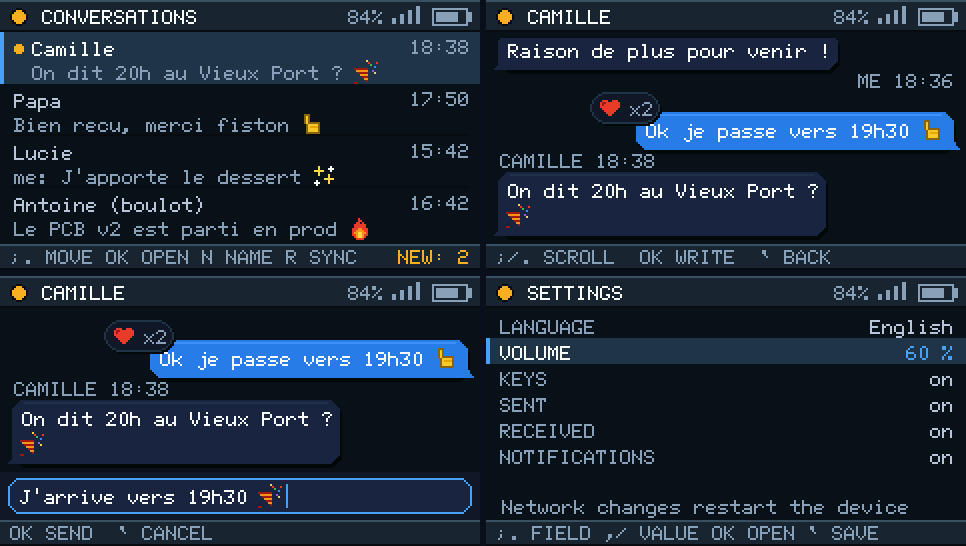
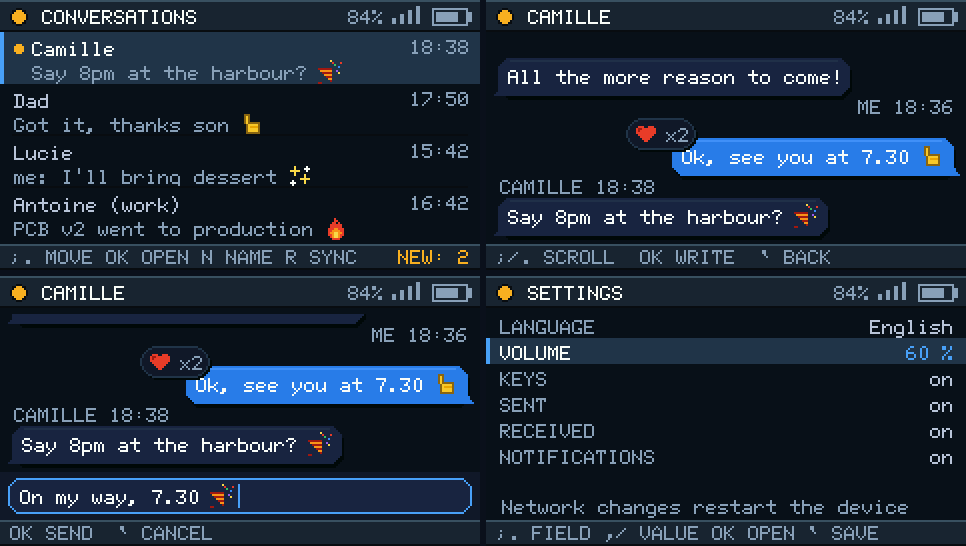
Les images publiées parlent anglais, messages compris
Le chrome suivait déjà la langue ; le jeu de démonstration, lui, restait
français — un mélange qui ne se voit qu'une fois les images montées. Le
contenu de démo suit désormais --lang : contacts, conversations et
frappe du GIF. Toutes les images de publication regénérées en anglais.

diff --git a/src/main_sim.cpp b/src/main_sim.cpp
@@ -94,31 +94,56 @@ BBMsg mkMsg(const char* text, int64_t date, bool fromMe, const char* sender = ""
 void fillDemo(UiModel& m) {
     const int64_t now = demoNow();
     const int64_t MIN = 60000, H = 3600000, D = 86400000;
+    const bool fr = (gLang == LANG_FR);
+
+    // Le jeu de démonstration suit la langue de l'interface : les captures
+    // publiées (anglais par défaut) ne doivent pas mélanger un chrome
+    // anglais et des messages français.
+    auto L = [&](const char* en, const char* frTxt) { return fr ? frTxt : en; };
 
     m.chats.clear();
-    m.chats.push_back(mkChat("621043678", "Camille", "On dit 20h au Vieux Port ? 🎉", now - 4 * MIN, false));
-    m.chats.push_back(mkChat("633728194", "Papa", "Bien recu, merci fiston 👍", now - 52 * MIN, false));
-    m.chats.push_back(mkChat("677301582", "Lucie", "J'apporte le dessert ✨", now - 3 * H, true));
-    m.chats.push_back(mkChat("606459217", "Antoine B.", "Le PCB v2 est parti en prod 🔥", now - 26 * H, false));
-    m.chats.push_back(mkChat("688112430", "Maman", "Appelle-moi quand tu peux ❤", now - 2 * D, false));
+    m.chats.push_back(mkChat("621043678", "Camille",
+        L("Say 8pm at the harbour? \xF0\x9F\x8E\x89", "On dit 20h au Vieux Port ? \xF0\x9F\x8E\x89"),
+        now - 4 * MIN, false));
+    m.chats.push_back(mkChat("633728194", L("Dad", "Papa"),
+        L("Got it, thanks son \xF0\x9F\x91\x8D", "Bien recu, merci fiston \xF0\x9F\x91\x8D"),
+        now - 52 * MIN, false));
+    m.chats.push_back(mkChat("677301582", "Lucie",
+        L("I'll bring dessert \xE2\x9C\xA8", "J'apporte le dessert \xE2\x9C\xA8"),
+        now - 3 * H, true));
+    m.chats.push_back(mkChat("606459217", "Antoine B.",
+        L("PCB v2 went to production \xF0\x9F\x94\xA5", "Le PCB v2 est parti en prod \xF0\x9F\x94\xA5"),
+        now - 26 * H, false));
+    m.chats.push_back(mkChat("688112430", L("Mom", "Maman"),
+        L("Call me when you can \xE2\x9D\xA4", "Appelle-moi quand tu peux \xE2\x9D\xA4"),
+        now - 2 * D, false));
     m.chats[2].lastFromMe = true;
-    // Non-lus : Camille (récente) et Maman.
+    m.chats[3].alias = L("Antoine (work)", "Antoine (boulot)");  // alias local
     for (auto& c : m.chats) m.seen[c.key] = c.lastDate;
     m.seen[m.chats[0].key] = 0;
     m.seen[m.chats[4].key] = 0;
 
     m.msgs.clear();
-    m.msgs.push_back(mkMsg("Tu fais quoi ce soir ?", now - 61 * MIN, false));
-    m.msgs.push_back(mkMsg("Rien de prevu, pourquoi ?", now - 58 * MIN, true));
-    m.msgs.push_back(mkMsg("On se fait une bouillabaisse avec Lucie et Antoine 😄", now - 24 * MIN, false));
-    m.msgs.push_back(mkMsg("Grosse journee, j'ai flashe le firmware 12 fois 😅", now - 22 * MIN, true));
-    m.msgs.back().taps[3] = 1;  // 😂 sur le message envoyé
-    m.msgs.push_back(mkMsg("Raison de plus pour venir !", now - 20 * MIN, false));
-    m.msgs.push_back(mkMsg("Ok je passe vers 19h30 👍", now - 6 * MIN, true));
-    m.msgs.back().taps[0] = 2;  // ❤ ×2
-    m.msgs.push_back(mkMsg("On dit 20h au Vieux Port ? 🎉", now - 4 * MIN, false));
-
-    m.chats[3].alias = "Antoine (boulot)";  // alias local : prioritaire sur le titre
+    m.msgs.push_back(mkMsg(L("What are you up to tonight?", "Tu fais quoi ce soir ?"),
+                           now - 61 * MIN, false));
+    m.msgs.push_back(mkMsg(L("Nothing planned, why?", "Rien de prevu, pourquoi ?"),
+                           now - 58 * MIN, true));
+    m.msgs.push_back(mkMsg(L("Dinner with Lucie and Antoine \xF0\x9F\x98\x84",
+                             "On se fait une bouillabaisse avec Lucie \xF0\x9F\x98\x84"),
+                           now - 24 * MIN, false));
+    m.msgs.push_back(mkMsg(L("Long day, flashed the firmware 12 times \xF0\x9F\x98\x85",
+                             "Grosse journee, j'ai flashe 12 fois \xF0\x9F\x98\x85"),
+                           now - 22 * MIN, true));
+    m.msgs.back().taps[3] = 1;  // \xF0\x9F\x98\x82 sur le message envoyé
+    m.msgs.push_back(mkMsg(L("All the more reason to come!", "Raison de plus pour venir !"),
+                           now - 20 * MIN, false));
+    m.msgs.push_back(mkMsg(L("Ok, see you at 7.30 \xF0\x9F\x91\x8D",
+                             "Ok je passe vers 19h30 \xF0\x9F\x91\x8D"),
+                           now - 6 * MIN, true));
+    m.msgs.back().taps[0] = 2;  // coeur x2
+    m.msgs.push_back(mkMsg(L("Say 8pm at the harbour? \xF0\x9F\x8E\x89",
+                             "On dit 20h au Vieux Port ? \xF0\x9F\x8E\x89"),
+                           now - 4 * MIN, false));
 
     UiNet n1; n1.ssid = "HomeWiFi";        n1.rssi = -48; n1.secure = true;
     UiNet n2; n2.ssid = "Livebox-C4F2";    n2.rssi = -61; n2.secure = true;
@@ -129,7 +154,7 @@ void fillDemo(UiModel& m) {
 
     m.curChatTitle = "Camille";
     m.curChatKey = "p:621043678";
-    m.compose = "J'arrive vers 19h30 🎉";
+    m.compose = L("On my way, 7.30 \xF0\x9F\x8E\x89", "J'arrive vers 19h30 \xF0\x9F\x8E\x89");
 
     m.battery = 84;
     m.wifiOk = true;
@@ -467,7 +492,8 @@ int runFrames(const std::string& dir, int n) {
     m.msgs.pop_back();
     m.screen = SCR_MESSAGES;
     m.compose = "";
-    const String typed = "J'arrive vers 19h30 ";  // l'émoji est ajouté d'un bloc
+    const String typed = (gLang == LANG_FR) ? "J'arrive vers 19h30 "
+                                           : "On my way, 7.30 ";  // émoji ajouté d'un bloc
 
     char name[64];
     for (int f = 0; f < n; f++) {

diff --git a/docs/03_ROADMAP.md b/docs/03_ROADMAP.md
@@ -187,6 +187,10 @@ python3 scripts/make_store_images.py  # cover M5Burner, mosaïque 3x2, GIF
       d'étiquette sous la barre (étiquette d'un message défilé), et émojis
       de démonstration hors couverture qui tombaient sur le glyphe « ? »
 - [x] README bilingues illustrés : héros, GIF, galerie 3×2
+- [x] **Jeu de démonstration bilingue** : le contenu suit la langue de
+      l'interface (`--lang`), les images publiées sont donc entièrement en
+      anglais — chrome ET messages. Un chrome anglais sur des messages
+      français passait inaperçu jusqu'au montage (constat PO)
 
 ## v0.18 — Alias dans le chrome, et écran À propos (2026-08-16) — flashé
 
